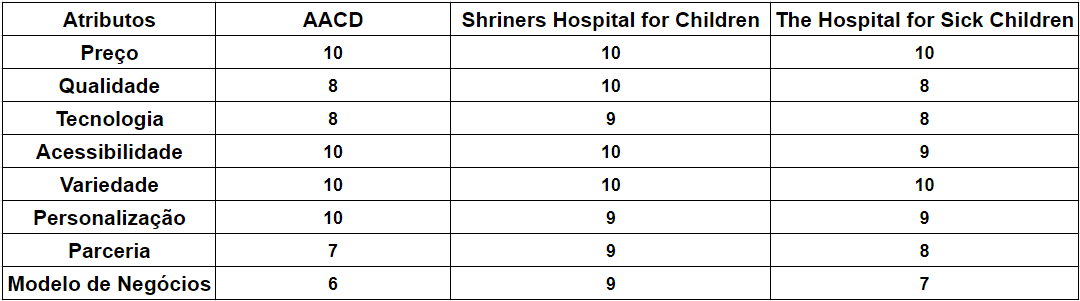
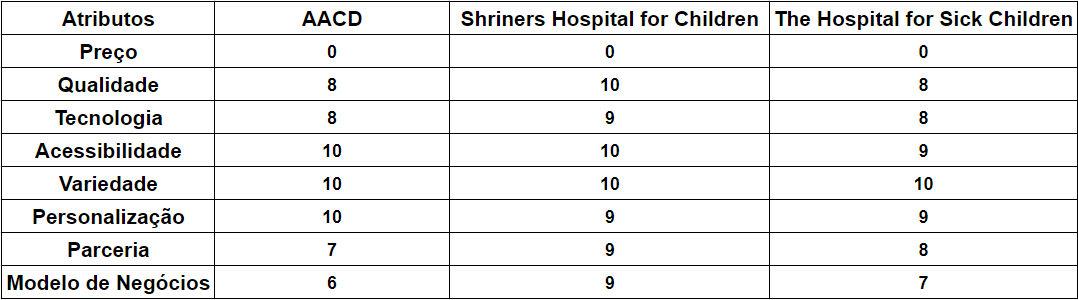
Introdução de modelo de negócios e matriz de oceano azul concluída.

diff --git a/docs/entendimento_negocio.md b/docs/entendimento_negocio.md
@@ -25,30 +25,27 @@ Figura 2: Gráfico de comparação de parâmetros da matriz de avaliação de Oc
 ![Gráfico da Matriz de Oceano Azul](./img/matriz_avaliacao_oceano_azul.png)
 
 ### Preço
-
+O atributo de preços pode ser representado pelo custo de tratamento de um paciente, que seria pago diretamente a instituição. Como todas as instituições do comparativo atuam com insumos públicos e/ou privados, a nota de todas elas foi 0, uma vez que não há custos diretos para o paciente. Neste atributo, foi avaliado que não há necessidade em aumentar, reduzir, eliminar ou criar um novo atributo, mas de manter o atributo atual.
 
 ### Qualidade
-
+O atributo de qualidade é representado pela qualidade do atendimento, dos equipamentos e recursos disponíveis e dos serviços prestados. Neste aspecto, o Shriners se destaca, uma vez que tem o seu investimento captado de diversas fontes, pessoas e empresas, trazendo equipamentos de ponta e profissionais altamente qualificados. A AACD e o Hospital for Sick Children possuem uma nota de 8, enquanto o Shriners possui uma nota de 10. Neste atributo, foi avaliado que há necessidade em aumentar o atributo atual na AACD, uma vez que o maior capital ainda é o do governo e isso pode limitar a operação e alguns tratamentos quanto dito sobre recursos e a qualidade deles, deixando um peso maior para os terapeutas suprirem para que a avaliação da instituição seja boa e desejável de ser mantida.
 
 ### Tecnologia
-
+O atributo de tecnologia se refere aos recursos tecnológicos oferecidos dentro de cada instituição, sob perspectiva de qualidade e variedade disponível. Neste atributo, as instituições mencionadas estão bem equiparadas, pois oferecem maquinário e equipamentos necessários para as tarefas tradicionais dos tratamentos e oferecem recursos alternativos para uma tratamento que precisa de atividades diferentes. Por conta disto, o Shriners recebeu nota 9 e a AACD e o Hospital for Sick Children receberam nota 8 e o ideal para este atributo é visar o aumento da tecnologia nos recursos e equipamentos oferecidos.
 
 ### Acessibilidade
-
+O atributo de acessibilidade foi avaliado sobre a perspectiva de diversidade de meios de chegada ao instituto e a praticidade de acesso. Neste atributo, o Shriners se destaca em quantidade e dispersão, pois possui uma rede de 22 hospitais espalhados pelos Estados Unidos, Canadá e México, enquanto a AACD possui 9 unidades espalhadas pelo Brasil e o Hospital for Sick Children possui apenas uma unidade em Toronto. Ainda assim, com base no Google Maps, todas as instituições dos 3 nomes mencionados possuem uma boa localização para transportes públicos e estacionamento para transportes privados. Por conta disto, o Shriners e a AACD receberam nota 10, por quantidade de unidades e o Hospital for Sick Children recebeu nota 9, por ter uma unidade só e o transporte público parar pouco distante da instituição. Embora as notas sejam altas, o ideal para este atributo é visar melhorar a acessibilidade, seja com mais unidades ou com uma melhor localização para o transporte público, aumentando a nota ou mantendo-a em 10.
 
 ### Variedade
-
+O atributo de variedade foi avaliado sob a perspectiva de quantidade de atendimentos na instituição. Neste atributo, todas as instituições oferecem uma gama muito similar de atendimentos, com foco em terapia ocupacional, fisioterapia, fonoaudiologia, psicologia, nutrição e terapia da dor. Por conta disto, o Shriners, a AACD e o Hospital for Sick Children receberam nota 10. Para este atributo, o ideal é mantê-lo, já que estão bem desenvolvidos neste aspecto.
 
 ### Personalização
-
+O atributo de personalização foi avaliado sob a perspectiva de quanto os atendimentos terapêuticos podem mudar de acordo com a necessidade individual de cada paciente. Neste atributo, a AACD se destaca por personalizar o atendimento para cada paciente e gerar relatórios ao final de cada sessão e um relatório de desenvolvimento trimestral para uma análise de evolução de cada paciente, enquanto o Shriners e o Sick Kids não possuem o segundo modelo de relatório. Por conta disto, a AACD recebeu nota 10, enquanto o Shriners e o Sick Kids receberam nota 9. Embora todas as instituições tem uma nota muito alta, o objetivo ideal é continuar desenvolvendo este atributo para aumentar e manter sempre com uma nota muito alta com o desenvolvimento de novas tecnologias e de descobertas sobre as áreas de atendimento de cada instituição.
 
 ### Parceria
-
+O atributo de parceria foi avaliado com base na diversidade de parceiros que podem e investem em cada instituição. Neste atributo, o Shriners leva uma valiosa vantagem, pois é uma instituição filantrópica que recebe investimentos de todas as direções (pública, privada e governamental), tendo a maior fonte, o investimento privado. A AACD e o Sick Kids atuam com investimento majoritário governamental, sendo relativamente limitado ao que o governo pode oferecer. Por mais que tenham investimentos privados, eles não suprem as necessidades financeiras que poderiam ser cobertas por um insumo ideal do investidor majoritário. Por conta disto, o Shriners recebeu nota 9, enquanto a AACD recebeu nota 7 e o Sick Kids receberam nota 8. Neste aspecto, o ideal seria aumentar as notas de todas as instituições, mas é importante entender que não é por conta própria que elas tenham essas necessidades, mas por motivos externos.
 
 ### Modelo de Negócio
-
-
-## Matriz de Risco
-
+O atributo de modelo de negócios foi avaliado com base nas fontes de financiamento e nos fluxos de receita. A AACD e o Sick Kids atuam majoritariamente com capital proveniente do pagamento de impostos da população e pode atender também através de convênios e/ou seguros saúde. O Shriners atua com capital proveniente de doações de pessoas e empresas, além de receber investimentos governamentais e de convênios e/ou seguros saúde. Por conta da maior abrangência em seu modelo de negócios, o Shrines leva vantagem neste atributo da comparação e consequentemente, a maior nota, sendo avaliado com nota 9, enquanto a AACD recebeu nota 6, uma vez que seu investimento primário é controlado e relativamente baixo para a demanda de ação (em comparação interna de quando a instituição era considerada "portas abertas") e o Sick Kids recebeu nota 7, pois seu maior investimento não é diretamente financeiro, mas em alunos estudantes da universidade de Toronto que fazem estágios e/ou residência na instituição e colaboram com o tratamento dos pacientes. Neste aspecto, o ideal seria aumentar as notas de todas as instituições, mas assim como o atributo de parceria, é importante entender que não é por conta própria que elas tenham essas necessidades, mas por motivos externos.
 
 ## Análise Financeira
